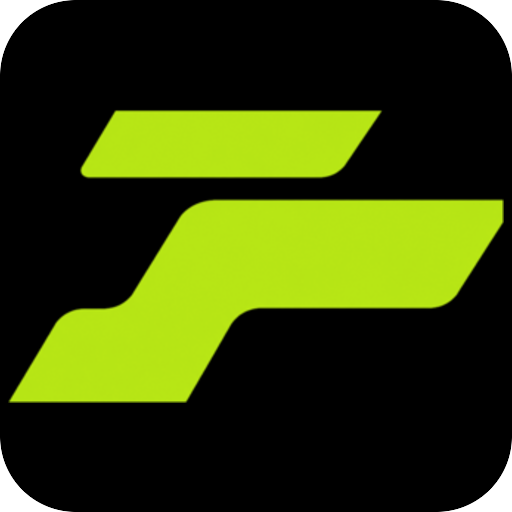
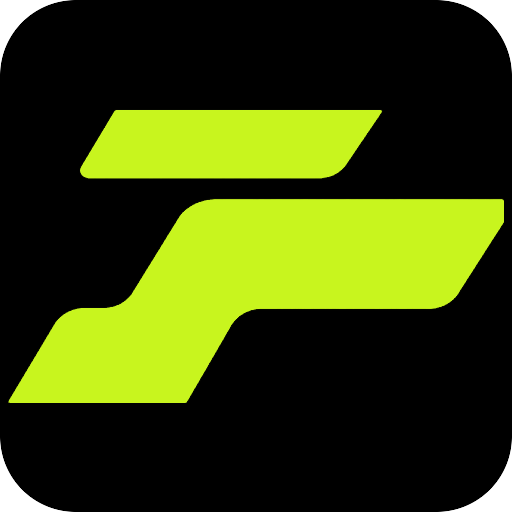
Published your App
Replit-Commit-Author: Deployment
Replit-Commit-Session-Id: 615d29e3-aad1-437b-aa0d-3aa31b47589e
Replit-Commit-Checkpoint-Type: full_checkpoint
Replit-Commit-Event-Id: ec3bc7a9-306e-4bb6-b1c8-164a6ab88317
Replit-Commit-Screenshot-Url: https://storage.googleapis.com/screenshot-production-us-central1/b1b82713-81e2-4cd2-b004-e7f1a6680937/615d29e3-aad1-437b-aa0d-3aa31b47589e/EkdQtr2
Replit-Commit-Deployment-Build-Id: ec215dd4-7db0-482d-94bd-10bb37f7b254

diff --git a/client/index.html b/client/index.html
@@ -22,10 +22,10 @@
     <meta name="mobile-web-app-capable" content="yes">
     <meta name="format-detection" content="telephone=yes">
     <link rel="manifest" href="/manifest.json">
-    <link rel="apple-touch-icon" href="/inflow-icon-180.png?v=6">
-    <link rel="apple-touch-icon" sizes="180x180" href="/inflow-icon-180.png?v=6">
-    <link rel="apple-touch-icon" sizes="192x192" href="/inflow-icon-192.png?v=6">
-    <link rel="apple-touch-icon" sizes="512x512" href="/inflow-icon-512.png?v=6">
+    <link rel="apple-touch-icon" href="/inflow-icon-180.png?v=7">
+    <link rel="apple-touch-icon" sizes="180x180" href="/inflow-icon-180.png?v=7">
+    <link rel="apple-touch-icon" sizes="192x192" href="/inflow-icon-192.png?v=7">
+    <link rel="apple-touch-icon" sizes="512x512" href="/inflow-icon-512.png?v=7">
     
     <link rel="preconnect" href="https://fonts.googleapis.com">
     <link rel="preconnect" href="https://fonts.gstatic.com" crossorigin>

diff --git a/client/src/components/LogoSidebarTrigger.tsx b/client/src/components/LogoSidebarTrigger.tsx
@@ -25,7 +25,7 @@ export function LogoSidebarTrigger({ className = "", size = 44 }: LogoSidebarTri
       style={{
         width: size,
         height: size,
-        backgroundImage: "url(/inflow-icon-192.png?v=6)",
+        backgroundImage: "url(/inflow-icon-192.png?v=7)",
         backgroundSize: "100%",
         backgroundPosition: "center",
         backgroundRepeat: "no-repeat",
